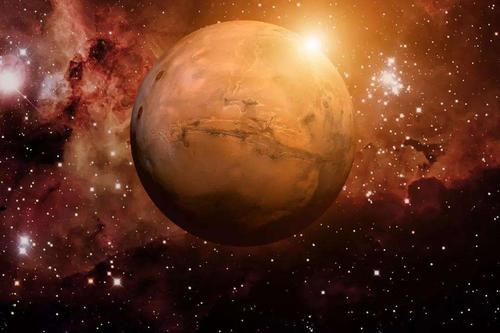
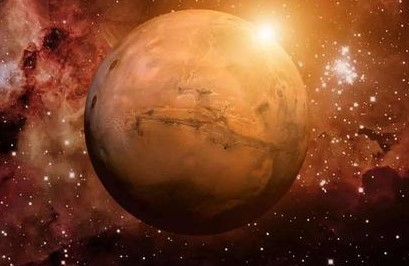
Site updated: 2019-12-22 22:06:32

diff --git a/2019/12/13/firstblog/index.html b/2019/12/13/firstblog/index.html
@@ -13,8 +13,8 @@
 <meta property="og:site_name" content="Hexo">
 <meta property="og:locale" content="en">
 <meta property="og:image" content="http:&#x2F;&#x2F;yoursite.com&#x2F;2019&#x2F;12&#x2F;13&#x2F;firstblog&#x2F;1.jpg">
-<meta property="og:image" content="http:&#x2F;&#x2F;image.baidu.com&#x2F;search&#x2F;detail?ct=503316480&amp;z=undefined&amp;tn=baiduimagedetail&amp;ipn=d&amp;word=%E7%81%AB%E5%BD%B1&amp;step_word=&amp;ie=utf-8&amp;in=&amp;cl=2&amp;lm=-1&amp;st=undefined&amp;hd=undefined&amp;latest=undefined&amp;copyright=undefined&amp;cs=351389481,1120670051&amp;os=1545216751,3928106055&amp;simid=3337257442,346441663&amp;pn=9&amp;rn=1&amp;di=147620&amp;ln=1468&amp;fr=&amp;fmq=1576250225132_R&amp;fm=&amp;ic=undefined&amp;s=undefined&amp;se=&amp;sme=&amp;tab=0&amp;width=undefined&amp;height=undefined&amp;face=undefined&amp;is=0,0&amp;istype=0&amp;ist=&amp;jit=&amp;bdtype=0&amp;spn=0&amp;pi=0&amp;gsm=0&amp;objurl=http%3A%2F%2Fb-ssl.duitang.com%2Fuploads%2Fitem%2F201903%2F02%2F20190302125242_ajpqb.thumb.700_0.jpeg&amp;rpstart=0&amp;rpnum=0&amp;adpicid=0&amp;force=undefined">
-<meta property="og:updated_time" content="2019-12-22T13:38:25.158Z">
+<meta property="og:image" content="https:&#x2F;&#x2F;guan0227.github.io&#x2F;2019&#x2F;12&#x2F;13&#x2F;firstblog&#x2F;2.jpg">
+<meta property="og:updated_time" content="2019-12-22T14:00:04.121Z">
 <meta name="twitter:card" content="summary">
 <meta name="twitter:image" content="http:&#x2F;&#x2F;yoursite.com&#x2F;2019&#x2F;12&#x2F;13&#x2F;firstblog&#x2F;1.jpg">
   
@@ -86,12 +86,12 @@
     <div class="article-entry" itemprop="articleBody">
       
         <p> <img src="/2019/12/13/firstblog/1.jpg" alt="相对路径"> </p>
-<p> <img src="http://image.baidu.com/search/detail?ct=503316480&z=undefined&tn=baiduimagedetail&ipn=d&word=%E7%81%AB%E5%BD%B1&step_word=&ie=utf-8&in=&cl=2&lm=-1&st=undefined&hd=undefined&latest=undefined&copyright=undefined&cs=351389481,1120670051&os=1545216751,3928106055&simid=3337257442,346441663&pn=9&rn=1&di=147620&ln=1468&fr=&fmq=1576250225132_R&fm=&ic=undefined&s=undefined&se=&sme=&tab=0&width=undefined&height=undefined&face=undefined&is=0,0&istype=0&ist=&jit=&bdtype=0&spn=0&pi=0&gsm=0&objurl=http%3A%2F%2Fb-ssl.duitang.com%2Fuploads%2Fitem%2F201903%2F02%2F20190302125242_ajpqb.thumb.700_0.jpeg&rpstart=0&rpnum=0&adpicid=0&force=undefined" alt="绝对路径"></p>
+<p> <img src="https://guan0227.github.io/2019/12/13/firstblog/2.jpg" alt="绝对路径"></p>
 
       
     </div>
     <footer class="article-footer">
-      <a data-url="http://yoursite.com/2019/12/13/firstblog/" data-id="ck44arfwv000004tl0doc4510" class="article-share-link">Share</a>
+      <a data-url="http://yoursite.com/2019/12/13/firstblog/" data-id="ck4h2bqnw0000nwtl7iia4axu" class="article-share-link">Share</a>
       
       
     </footer>

diff --git a/index.html b/index.html
@@ -84,12 +84,12 @@
     <div class="article-entry" itemprop="articleBody">
       
         <p> <img src="/2019/12/13/firstblog/1.jpg" alt="相对路径"> </p>
-<p> <img src="http://image.baidu.com/search/detail?ct=503316480&z=undefined&tn=baiduimagedetail&ipn=d&word=%E7%81%AB%E5%BD%B1&step_word=&ie=utf-8&in=&cl=2&lm=-1&st=undefined&hd=undefined&latest=undefined&copyright=undefined&cs=351389481,1120670051&os=1545216751,3928106055&simid=3337257442,346441663&pn=9&rn=1&di=147620&ln=1468&fr=&fmq=1576250225132_R&fm=&ic=undefined&s=undefined&se=&sme=&tab=0&width=undefined&height=undefined&face=undefined&is=0,0&istype=0&ist=&jit=&bdtype=0&spn=0&pi=0&gsm=0&objurl=http%3A%2F%2Fb-ssl.duitang.com%2Fuploads%2Fitem%2F201903%2F02%2F20190302125242_ajpqb.thumb.700_0.jpeg&rpstart=0&rpnum=0&adpicid=0&force=undefined" alt="绝对路径"></p>
+<p> <img src="https://guan0227.github.io/2019/12/13/firstblog/2.jpg" alt="绝对路径"></p>
 
       
     </div>
     <footer class="article-footer">
-      <a data-url="http://yoursite.com/2019/12/13/firstblog/" data-id="ck44arfwv000004tl0doc4510" class="article-share-link">Share</a>
+      <a data-url="http://yoursite.com/2019/12/13/firstblog/" data-id="ck4h2bqnw0000nwtl7iia4axu" class="article-share-link">Share</a>
       
       
     </footer>
@@ -138,7 +138,7 @@
       
     </div>
     <footer class="article-footer">
-      <a data-url="http://yoursite.com/2019/11/22/hello-world/" data-id="ck44arfx2000104tle6ru7i9i" class="article-share-link">Share</a>
+      <a data-url="http://yoursite.com/2019/11/22/hello-world/" data-id="ck4h2bqo30001nwtlf2pbcjzg" class="article-share-link">Share</a>
       
       
     </footer>

diff --git a/2019/11/22/hello-world/index.html b/2019/11/22/hello-world/index.html
@@ -101,7 +101,7 @@
       
     </div>
     <footer class="article-footer">
-      <a data-url="http://yoursite.com/2019/11/22/hello-world/" data-id="ck44arfx2000104tle6ru7i9i" class="article-share-link">Share</a>
+      <a data-url="http://yoursite.com/2019/11/22/hello-world/" data-id="ck4h2bqo30001nwtlf2pbcjzg" class="article-share-link">Share</a>
       
       
     </footer>
